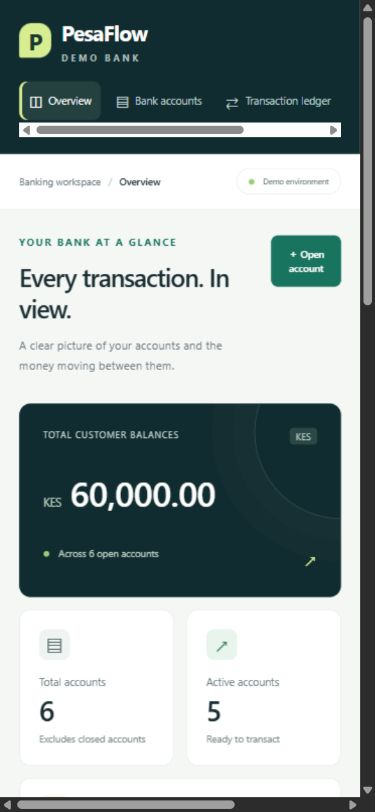
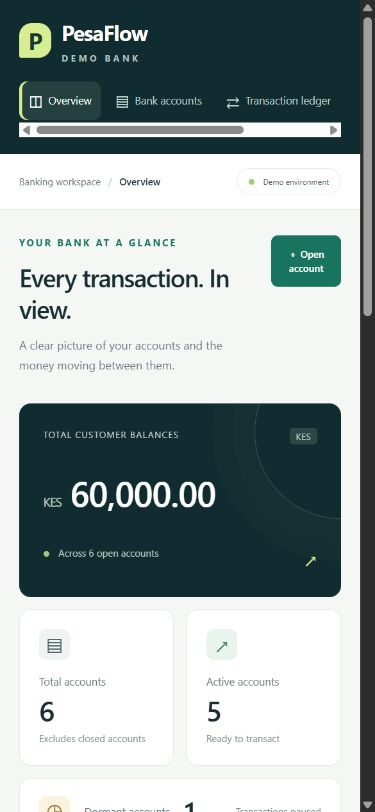
fix: keep mobile tables within the viewport and verify responsive layouts

diff --git a/static/css/app.css b/static/css/app.css
@@ -1,6 +1,6 @@
 :root{--navy:#112c30;--ink:#192e33;--muted:#6a797d;--green:#18745e;--line:#e5eae7;--bg:#f5f7f5;--sidebar:246px}*{box-sizing:border-box}body{background:var(--bg);color:var(--ink);font-family:Inter,"Segoe UI",Arial,sans-serif;font-size:14px}a{color:var(--green);text-decoration:none}a:hover{color:#104d3f;text-decoration:underline}button,input,select{font:inherit}:focus-visible{outline:3px solid #d38f22!important;outline-offset:4px}.skip-link{position:fixed;top:-60px;background:white;padding:12px;z-index:20}.skip-link:focus{top:5px}.sidebar{position:fixed;inset:0 auto 0 0;width:var(--sidebar);background:var(--navy);color:#fff;padding:35px 20px 20px;display:flex;flex-direction:column;z-index:10}.brand{display:flex;align-items:center;gap:11px;color:inherit;font-size:25px;font-weight:650;letter-spacing:-.7px}.brand:hover{color:inherit;text-decoration:none}.brand-mark{display:grid;place-items:center;background:#d7ed91;color:#19372f;width:40px;height:44px;border-radius:13px 13px 13px 2px;font-size:28px}.brand small{display:block;font-size:9px;letter-spacing:3.1px;color:#adbfbd;margin-top:3px}.nav-label{font-size:10px;color:#8fa9a6;letter-spacing:1.7px;margin:56px 15px 16px}.nav-item{display:flex;align-items:center;gap:13px;color:#bdd0cd;padding:14px 15px;border-radius:8px;margin:3px 0;font-size:13px}.nav-item span{font-size:22px;line-height:20px}.nav-item:hover,.nav-item.selected{background:#24403f;color:white;text-decoration:none}.nav-item.selected{box-shadow:inset 3px 0 #d7ed91}.sidebar-note{margin-top:auto;background:#1a3738;border:1px solid #2d4948;border-radius:10px;padding:18px 13px;font-size:11px}.sidebar-note p{color:#a1b9b4;line-height:1.8;margin:9px 0 0}.live-dot{display:inline-block;width:6px;height:6px;border-radius:50%;background:#9bce75;margin-right:7px}.profile{display:flex;align-items:center;gap:10px;border-top:1px solid #355050;margin-top:22px;padding-top:20px}.profile strong{font-size:12px}.profile small{display:block;color:#a4bfba;font-size:10px;margin-top:4px}.profile form{margin-left:auto}.avatar{flex-shrink:0;display:grid;place-items:center;width:36px;height:36px;border-radius:50%;background:#e8efeb;color:#38574a;font-size:13px;font-weight:600}.profile .avatar{background:#44605a;color:#e6f0df}.signout{background:none;color:#d8e7df;border:0;font-size:23px}.workspace{margin-left:var(--sidebar)}.topbar{height:79px;border-bottom:1px solid var(--line);background:#fff;padding:0 40px;display:flex;justify-content:space-between;align-items:center;font-size:12px;color:var(--muted)}.topbar strong{color:var(--ink);font-weight:500}.slash{margin:0 15px;color:#bdc9c5}.environment{border:1px solid var(--line);padding:7px 12px;border-radius:30px;color:#455d53;font-size:10px}main{max-width:1600px;margin:0 auto;padding:38px 40px 45px}.page-heading{display:flex;justify-content:space-between;gap:20px;align-items:center;margin-bottom:30px}.eyebrow{font-size:10px;font-weight:650;letter-spacing:1.9px;color:var(--green);margin-bottom:12px}h1{font-size:30px;letter-spacing:-1px;font-weight:600;line-height:1.25;margin-bottom:12px}h2{font-size:16px;font-weight:600;letter-spacing:-.2px}p{color:var(--muted);line-height:1.7;margin-bottom:0}.btn{font-size:12px;font-weight:600;border-radius:7px;padding:12px 18px;white-space:normal}.btn-primary{background:var(--green);border-color:var(--green)}.btn-primary:hover,.btn-primary:focus{background:#105b49;border-color:#105b49}.btn-secondary{background:white;color:var(--ink);border-color:#dce3de}.btn-secondary:hover{background:#edf2ed;color:var(--ink);border-color:#b4c6bc}.btn-light{background:#fff;border-color:white;color:#24483a}.summary-grid{display:grid;grid-template-columns:1.65fr repeat(3,1fr);gap:17px}.balance-card{background:var(--navy);color:#fff;border-radius:12px;padding:25px;position:relative;overflow:hidden;min-width:0}.balance-card:after{content:"";position:absolute;width:180px;height:180px;border:1px solid #375553;border-radius:50%;right:-90px;top:-60px;box-shadow:0 0 0 22px #ffffff03,0 0 0 44px #ffffff03;pointer-events:none}.card-kicker{font-size:9px;letter-spacing:1px;color:#c0d0cb;display:flex;justify-content:space-between;gap:8px}.card-kicker span{background:#2b4846;border-radius:4px;padding:2px 6px;letter-spacing:.5px}.balance-amount{font-size:33px;letter-spacing:-.7px;margin:23px 0 28px;font-weight:550;font-variant-numeric:tabular-nums;overflow-wrap:anywhere}.balance-amount small{font-size:13px;font-weight:400;color:#b9cdbe}.balance-bottom{color:#b3c9bf;font-size:10px}.balance-bottom>span:last-child:not(.live-dot){float:right;font-size:19px;color:#d7ed91}.stat-card{border:1px solid var(--line);border-radius:12px;background:#fff;padding:20px;display:flex;flex-direction:column;min-width:0}.stat-icon{width:32px;height:32px;background:#eff3f2;color:#536c67;border-radius:8px;display:grid;place-items:center;font-size:21px;margin-bottom:14px}.stat-icon.green{background:#e9f4ed;color:#368365}.stat-icon.amber{background:#fbf2df;color:#9b7131}.stat-card>span{color:var(--muted);font-size:11px}.stat-card>strong{font-size:29px;font-weight:600;line-height:1.5}.stat-card small{font-size:10px;color:#829089}.activity-strip{display:flex;align-items:center;gap:30px;border-bottom:1px solid var(--line);padding:21px 0 25px;margin-bottom:26px;font-size:11px;color:#5c7065}.activity-strip>div{display:flex;align-items:center;gap:6px}.activity-strip small{color:#849189}.activity-strip>a{margin-left:auto;font-weight:600}.mini-icon{margin-right:4px;color:#649281;font-size:20px}.panel{background:white;border:1px solid var(--line);border-radius:12px;overflow:hidden}.panel-heading{padding:23px 24px 20px;display:flex;align-items:center;justify-content:space-between;gap:15px}.panel-heading h2{margin-bottom:5px}.panel-heading p{font-size:11px}.panel-heading>a{font-size:11px;white-space:nowrap;font-weight:600}.dashboard-grid{display:grid;grid-template-columns:minmax(0,2.6fr) minmax(230px,1fr);gap:23px}.table{font-size:11px;margin:0;--bs-table-bg:transparent}.table thead th{background:#fafbf9;padding:13px 18px;color:#7c8a81;text-transform:uppercase;font-size:9px;letter-spacing:.6px;font-weight:550;border-block:1px solid var(--line);white-space:nowrap}.table td{padding:17px 18px;border-color:#edf0ec}.table tbody tr:last-child td{border-bottom:0}.customer-cell{display:flex;align-items:center;gap:10px;color:var(--ink);white-space:nowrap}.customer-cell strong{font-weight:600}.customer-cell small,.reference{display:block;color:#89958d;font-size:9px;margin-top:5px;font-family:monospace;letter-spacing:.4px}.status{display:inline-flex;gap:5px;align-items:center;font-size:10px;border-radius:20px;padding:5px 9px;white-space:nowrap;background:#edf1ee}.status:before{content:"";width:4px;height:4px;border-radius:50%;background:currentColor}.status-active{background:#e9f4ed;color:#2c7454}.status-dormant{background:#fff3db;color:#8a6124}.status-closed{background:#eceff0;color:#5a666e}.money{font-variant-numeric:tabular-nums;white-space:nowrap;font-weight:550}.credit{color:#267755!important}.debit{color:#9f653a!important}.muted{color:var(--muted)!important}.entry-name{font-weight:600;color:var(--ink)}.loan-promo{background:#e9efda;border:1px solid #dce5cd;border-radius:12px;padding:25px;position:relative;overflow:hidden}.loan-promo .eyebrow{font-size:8px;letter-spacing:1px;position:relative}.promo-symbol{position:absolute;right:17px;top:19px;color:#ccd8b8;font-size:65px;line-height:1}.loan-promo h2{font-size:23px;line-height:1.35;letter-spacing:-.6px;margin:24px 0 12px;position:relative}.loan-promo p{font-size:11px;color:#627057}.promo-amount{font-size:25px;margin:18px 0;letter-spacing:-.7px}.promo-amount span{font-size:15px}.loan-promo .btn{width:100%;font-size:11px}.loan-promo>small{display:block;font-size:8px;color:#6e785d;margin-top:14px;text-align:center}footer{padding:22px 40px;border-top:1px solid var(--line);font-size:10px;color:#8b968e;display:flex;justify-content:space-between;gap:20px}footer>span{font-size:9px}.filter-bar{display:flex;gap:12px;padding:22px;align-items:center}.search-field{flex:1}.form-control,.login-form input{border:1px solid #dbe3dc;background:#fff;border-radius:7px;padding:11px 12px;font-size:13px;color:var(--ink);width:100%}.form-control:focus{border-color:#729d89;box-shadow:0 0 0 3px #2c765312}.empty-state{text-align:center;padding:45px!important;color:var(--muted)!important}.pagination-bar{display:flex;justify-content:center;gap:20px;padding:20px;border-top:1px solid var(--line);font-size:12px}.back-link{display:inline-block;font-size:12px;margin-bottom:25px}.detail-grid{display:grid;grid-template-columns:1.25fr 1fr;gap:24px}.customer-info{padding:25px}dl{display:grid;grid-template-columns:120px 1fr;gap:12px;font-size:12px;margin:20px 0 0}dt{font-weight:400;color:var(--muted)}dd{margin:0;overflow-wrap:anywhere}.action-bar{display:flex;gap:12px;margin:22px 0}.loan-detail{padding:25px;display:flex;align-items:center;justify-content:space-between;gap:20px}.loan-detail p{font-size:12px}.loan-detail .eyebrow{font-size:9px}.management{margin-top:32px;padding-top:25px;border-top:1px solid var(--line)}.management p{font-size:12px;margin-bottom:15px}.form-layout{display:grid;grid-template-columns:1fr 1.25fr;gap:60px;max-width:1050px;margin:0 auto}.form-intro{padding:16px 0}.form-intro h1{font-size:32px}.form-intro p{font-size:14px}.form-panel{padding:30px;height:fit-content}.field-group{margin-bottom:22px}.field-group label{display:block;font-size:12px;font-weight:600;margin-bottom:8px}.help-text{display:block;font-size:11px;color:var(--muted);margin-top:7px;line-height:1.5}.required{color:#719586}.error-text{color:#a53434;font-size:12px;margin-top:7px}.field-error input{border-color:#b64444}.form-actions{display:flex;align-items:center;gap:12px;border-top:1px solid var(--line);padding-top:24px}.hint{background:#ebefea;border:1px solid #dce5dd;color:#6a796d;padding:17px;border-radius:8px;line-height:1.7;font-size:11px;margin-top:30px}.account-context{margin-top:26px;background:#fff;padding:23px;border:1px solid var(--line);border-radius:10px}.account-context>span{display:block;margin-top:10px;font-size:12px}.account-context .status{display:inline-flex}.account-context>small{color:var(--muted)}.account-context h2{font-size:24px;margin:10px 0 0}.form-check-label{padding-left:8px;line-height:1.6}.receipt{max-width:620px;margin:15px auto 0;padding:40px;text-align:center}.receipt-check{width:56px;height:56px;background:#e7f2e6;color:var(--green);border-radius:50%;display:grid;place-items:center;font-size:27px;margin:0 auto 25px}.receipt h1{font-size:24px}.receipt-amount{font-size:39px;letter-spacing:-1px;margin:20px 0 6px}.receipt p{font-size:12px}.receipt dl{border-block:1px dashed #d4ded4;padding:25px 0;margin:25px 0;text-align:left;grid-template-columns:120px 1fr;gap:18px}.reference-full{font-family:monospace;font-size:11px;overflow-wrap:anywhere}.ledger-filters{display:flex;gap:14px;flex-wrap:wrap;align-items:flex-end;padding:22px;border-bottom:1px solid var(--line)}.ledger-filters .field-group{flex:1;min-width:140px;margin:0}.ledger-filters .alert{width:100%}.ledger-filters>a{padding:12px 0}.error-page{padding:60px;max-width:760px;margin:40px auto}.error-page p{margin-bottom:25px}.guest main{min-height:90vh;padding:55px}.login-layout{max-width:1050px;margin:0 auto;display:grid;grid-template-columns:1.15fr 1fr;gap:65px;align-items:center}.login-story{background:var(--navy);color:white;padding:40px;border-radius:18px}.login-story .brand{margin-bottom:65px}.login-story .eyebrow{color:#c9e194;font-size:9px}.login-story h1{font-size:42px;letter-spacing:-1.5px;margin:18px 0}.login-story p{color:#abc2b9;font-size:13px}.login-story>small{color:#a5bab0;font-size:10px}.login-art{border:1px solid #4e6860;background:linear-gradient(115deg,#305a4c,#183c37);border-radius:14px;padding:25px;margin:34px 0;color:#dbeac2}.login-art>span{font-weight:bold}.login-art>div{font-size:21px;line-height:1.4;margin:20px 0 25px}.login-art>small{font-size:8px;letter-spacing:2px}.login-form{border:0;background:transparent;padding:15px}.login-form h2{font-size:25px;margin:15px 0}.login-form p{font-size:12px;margin-bottom:30px}.login-form label{font-size:12px}.login-form .hint{margin-top:22px}.alert{font-size:13px}.alert ul{margin:0;padding-left:15px}
 @media(min-width:1600px){main{padding-top:50px}.summary-grid{gap:24px}.balance-amount{font-size:40px}.stat-card{padding:25px}}
-.mobile-signout{display:none}.panel,.form-layout>*{min-width:0}@media(max-width:800px){.mobile-signout{display:block;margin-top:16px}.summary-grid>.stat-card:last-child{flex-wrap:wrap}.summary-grid>.stat-card:last-child small{margin-left:0}.detail-grid,.form-layout{grid-template-columns:minmax(0,1fr)}}
+.table th{position:relative}.mobile-signout{display:none}.panel,.form-layout>*{min-width:0}@media(max-width:800px){.mobile-signout{display:block;margin-top:16px}.summary-grid>.stat-card:last-child{flex-wrap:wrap}.summary-grid>.stat-card:last-child small{margin-left:0}.detail-grid,.form-layout{grid-template-columns:minmax(0,1fr)}}
 @media(max-width:1200px){:root{--sidebar:210px}main{padding:28px 25px}.topbar{padding:0 25px}.summary-grid{grid-template-columns:1.6fr 1fr 1fr}.summary-grid>.stat-card:last-child{grid-column:1/-1;flex-direction:row;align-items:center;gap:20px;padding:12px 20px}.summary-grid>.stat-card:last-child .stat-icon{margin:0}.dashboard-grid{grid-template-columns:minmax(0,1fr)}.loan-promo{display:none}.balance-amount{font-size:30px}.activity-strip{gap:18px}.activity-strip small{display:none}.form-layout{gap:30px}.table td{padding:16px 13px}}
 @media(max-width:800px){:root{--sidebar:0px}.sidebar{position:relative;width:100%;padding:17px 20px;display:block}.brand{font-size:22px}.brand-mark{width:33px;height:36px;font-size:24px}.sidebar nav{display:flex;gap:5px;margin-top:15px;overflow:auto}.nav-item{font-size:11px;padding:10px;white-space:nowrap;gap:6px}.nav-item span{font-size:17px}.nav-label,.sidebar-note,.profile{display:none}.topbar{height:58px;padding:0 20px;font-size:10px}.environment{font-size:8px}.slash{margin:0 5px}main{padding:27px 20px}.page-heading{align-items:flex-start}h1{font-size:26px}.page-heading p{font-size:12px}.page-heading .btn{font-size:10px;padding:11px}.summary-grid{grid-template-columns:1fr 1fr;gap:13px}.balance-card{grid-column:1/-1}.summary-grid>.stat-card:last-child{grid-column:auto;display:flex;flex-direction:column;align-items:flex-start;gap:0;padding:20px}.summary-grid>.stat-card:last-child .stat-icon{margin-bottom:14px}.summary-grid>.stat-card:last-child{grid-column:1/-1;flex-direction:row;align-items:center;gap:15px;padding:12px 20px}.summary-grid>.stat-card:last-child .stat-icon{margin:0}.summary-grid>.stat-card:last-child small{margin-left:auto}.balance-amount{font-size:36px}.activity-strip{flex-wrap:wrap;gap:10px 20px}.activity-strip>a{margin-left:0}.table{min-width:570px}.panel-heading{padding:20px}.detail-grid,.form-layout{grid-template-columns:1fr;gap:20px}.form-intro{padding:0}.form-intro .hint{display:none}.form-panel{padding:23px}.loan-detail{display:block}.loan-detail .btn{margin-top:16px}.filter-bar{flex-wrap:wrap;padding:17px}.search-field{flex-basis:100%}.filter-bar>div:not(.search-field){flex:1}.action-bar{flex-wrap:wrap}.receipt{padding:25px}.receipt-amount{font-size:32px}.receipt dl{grid-template-columns:100px 1fr}footer{padding:20px;display:block}footer>span{display:block;margin-top:7px}.guest main{padding:25px 20px}.login-layout{grid-template-columns:1fr;gap:25px;max-width:500px}.login-story{padding:25px}.login-story .brand{margin-bottom:30px}.login-story h1{font-size:32px}.login-art,.login-story>small{display:none}.error-page{padding:30px}.ledger-filters .field-group{min-width:100%}}
 

diff --git a/README.md b/README.md
@@ -1,5 +1,7 @@
 # PesaFlow · KES Banking Transaction Interface
 
+[![CI](https://github.com/Tonnybraxton/banking-transaction-interface/actions/workflows/ci.yml/badge.svg)](https://github.com/Tonnybraxton/banking-transaction-interface/actions/workflows/ci.yml)
+
 A staff-operated Django banking assessment: open accounts, deposit, withdraw,
 transfer, safely close dormant accounts, and disburse a one-time **KES 10,000.00**
 loan. Every money movement has an atomic balance update and an audit receipt.
@@ -206,10 +208,10 @@ is 85%. Coverage is a measurement of executed code, not a guarantee of correctne
 All five quality checks above passed locally. Migrations and `seed_demo` were also
 run successfully, and the six main workflows were exercised in the browser.
 
-Desktop and mobile screenshots are real captures. Mobile inspection found
-horizontal overflow and prompted a layout correction; a subsequent visual check
-was unavailable during the review session, so that correction is not presented
-as visually verified.
+Desktop and mobile screenshots are real captures. Browser checks covered the
+dashboard and account layout at desktop, 390px mobile and 768px tablet widths.
+The mobile dashboard and account detail fit their viewport without page-level
+horizontal overflow; wide data tables scroll within their own containers.
 
 ## Security, concurrency and limits
 
